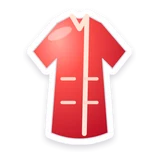
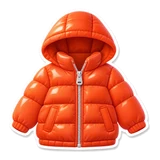
Emoji library: clearer nappy and jacket pictures (#195)
* New app icon, iPhone icon, notification badge and four shortcut pictures

- icon.svg / icon-192 / icon-512: the owner's new icon (open storybook, red
  wagon with a box, paper plane, on the app's navy) replaces the generic
  gradient book; no children's faces, so it fits every family
- apple-touch-icon.png: 180 px and opaque (iPhone used the 192 px one)
- icon-maskable-512.png: the drawing at 80% on navy so Android's circle crop
  never cuts the book; the 512 icon is now purpose "any"
- badge-96.png: white book + plane silhouette for Android notifications
- shortcuts (photo, voice, quote, today) each have their own picture instead
  of the app icon; the emoji left their short names
- kid-mode tiles keep main's set (public/art/kidui)
- test: every manifest icon exists at its stated size, four distinct shortcut
  pictures, a maskable icon, an opaque 180 px iPhone icon
- sw mbs-v123

Claude-Session: https://claude.ai/code/session_017iRLZJ3ouaf6dB3Z7mKXA3

* App icon: the LifeBook set (leather memory book, life-stage film strip)

- icon-192 / icon-512 / icon-maskable-512 / apple-touch-icon from the owner's
  LifeBook pack; it came cut from a design board, so the cream margin and the
  baked-in rounded corners are cropped and filled with the rim's navy (the
  phone rounds the corners itself); full-bleed, opaque
- favicon is now /icon-192.png (icon.svg removed; it was the old drawing)
- badge-96: the pack's white bell
[…]

diff --git a/public/sw.js b/public/sw.js
@@ -1,6 +1,6 @@
 // Memory Bookshelf service worker: app shell + all drawn art offline from the first visit; photos cached as you view them
 // (or all at once with "Keep this book offline"). Data (/api) is cached by the app itself (IndexedDB) and written through its queue.
-const V = 'mbs-v148';
+const V = 'mbs-v149';
 const SHELL = ['/', '/app.css', '/core.js', '/views.js', '/sheets.js', '/kid.js', '/manifest.webmanifest', '/icon-192.png',
   '/fonts/KIRA-UI-Regular.woff2', '/fonts/KIRA-UI-Medium.woff2', '/fonts/KIRA-UI-SemiBold.woff2', '/fonts/KIRA-UI-Bold.woff2',
   '/fonts/CormorantGaramond-SemiBold.woff2', '/fonts/CormorantGaramond-MediumItalic.woff2'];
